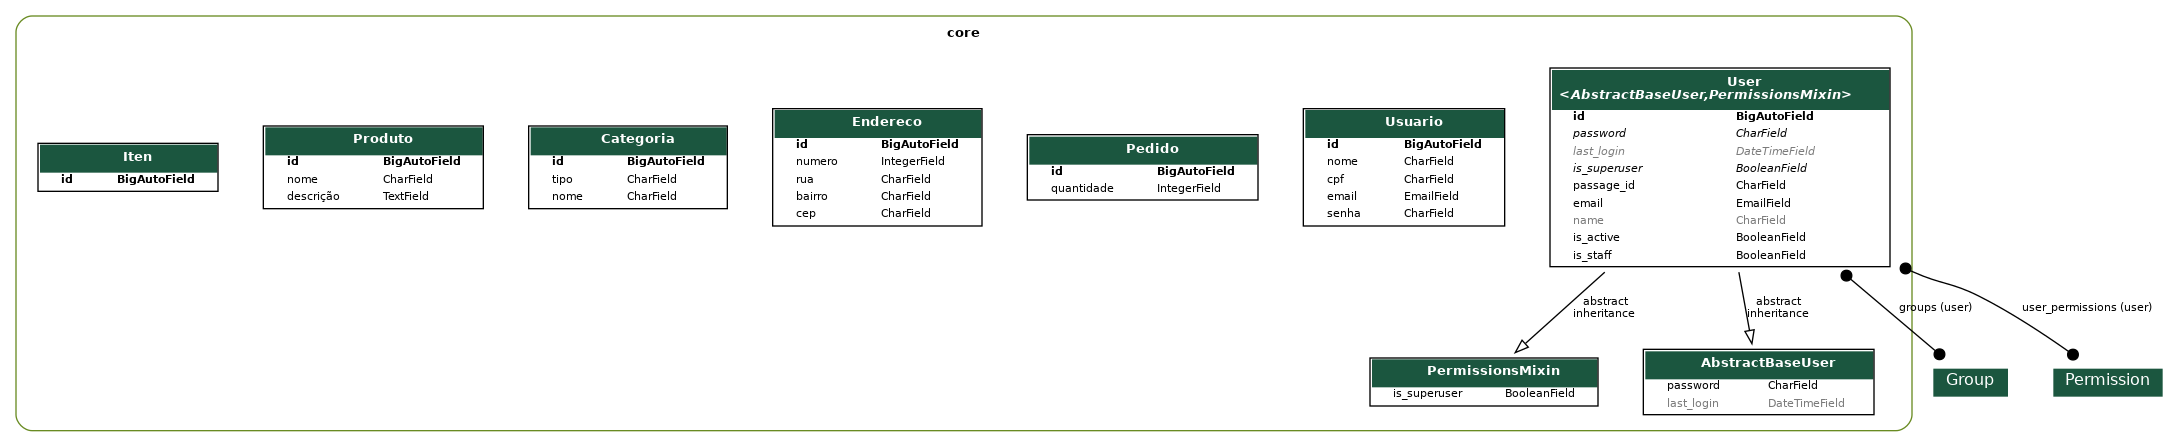
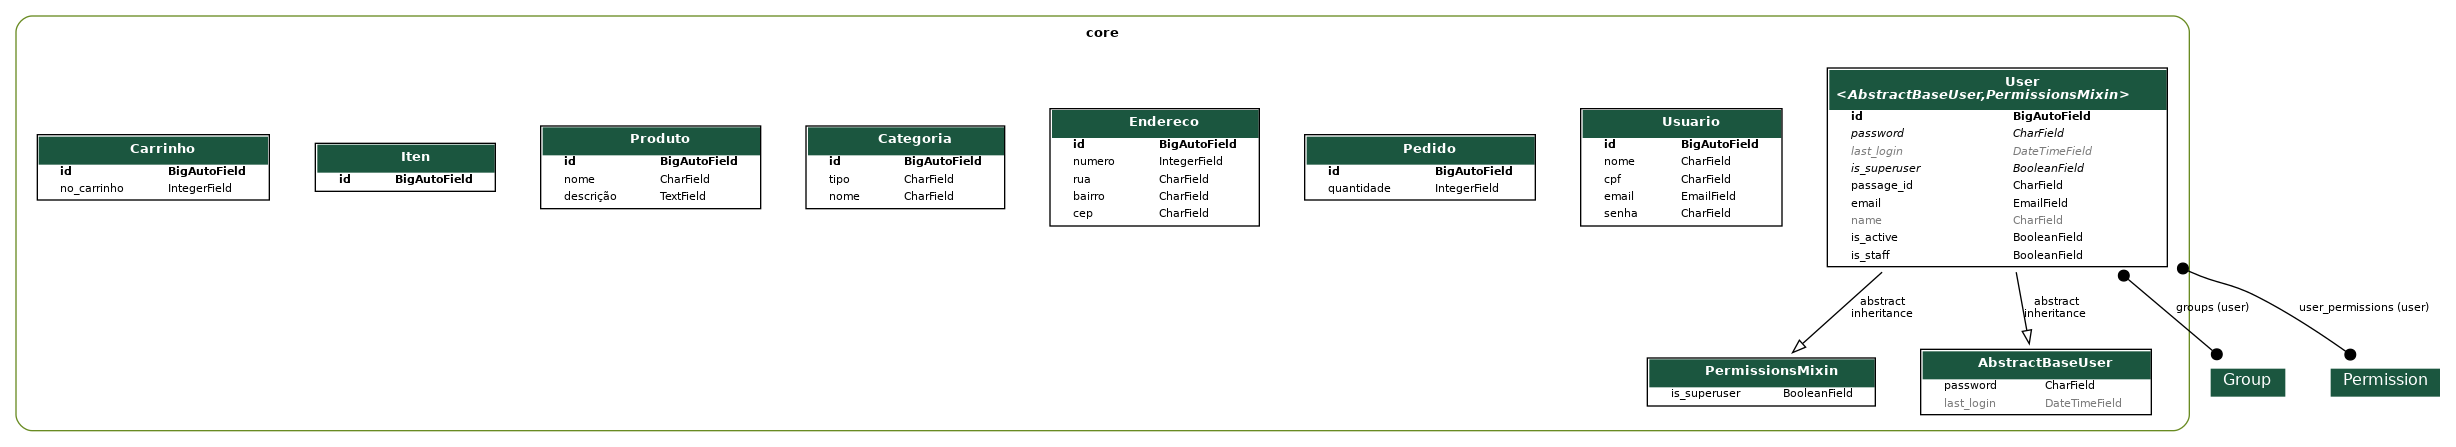
feat:criação do model e api carrinho

diff --git a/app/urls.py b/app/urls.py
@@ -1,5 +1,6 @@
 from django.contrib import admin
 from django.urls import include, path
+from core.views.carrinho import CarrinhoViewSet
 from core.views.categoria import CategoriaViewSet
 from core.views.endereco import EnderecoViewSet
 from core.views.itens_pedido import ItenViewSet
@@ -24,6 +25,9 @@ router.register(r'endereços',EnderecoViewSet, basename='endereços')
 router.register(r'categorias', CategoriaViewSet, basename='categorias')
 router.register(r'produto', ProdutoViewSet, basename='Produtos')
 router.register(r'Itens', ItenViewSet, basename='Itens')
+router.register(r'carrinhos', CarrinhoViewSet, basename='carrinhos')
+
+
 
 
 

diff --git a/core/migrations/0013_carrinho.py b/core/migrations/0013_carrinho.py
@@ -1,0 +1,20 @@
+# Generated by Django 5.1.7 on 2025-06-06 19:09
+
+from django.db import migrations, models
+
+
+class Migration(migrations.Migration):
+
+    dependencies = [
+        ('core', '0012_rename_intens_iten'),
+    ]
+
+    operations = [
+        migrations.CreateModel(
+            name='Carrinho',
+            fields=[
+                ('id', models.BigAutoField(auto_created=True, primary_key=True, serialize=False, verbose_name='ID')),
+                ('no_carrinho', models.IntegerField(default=0)),
+            ],
+        ),
+    ]

diff --git a/core/views/carrinho.py b/core/views/carrinho.py
@@ -1,0 +1,8 @@
+from rest_framework.viewsets import ModelViewSet
+
+from core.models import Carrinho
+from core.serializers import CarrinhoSerializer
+
+class CarrinhoViewSet(ModelViewSet):
+    queryset = Carrinho.objects.all()
+    serializer_class = CarrinhoSerializer

diff --git a/core/serializers/__init__.py b/core/serializers/__init__.py
@@ -5,3 +5,4 @@ from .endereco import EnderecoSerializer
 from .categoria import CategoriaSerializer
 from .produto import ProdutoSerializers
 from .itens_pedido import ItenSerializer
+from .carrinho import CarrinhoSerializer

diff --git a/core/serializers/carrinho.py b/core/serializers/carrinho.py
@@ -1,0 +1,8 @@
+from rest_framework.serializers import ModelSerializer
+
+from core.models import Carrinho 
+
+class CarrinhoSerializer(ModelSerializer):
+    class Meta:
+        model = Carrinho
+        fields = "__all__"

diff --git a/core/models/carrinho.py b/core/models/carrinho.py
@@ -1,0 +1,11 @@
+
+from django.db import models
+
+
+class Carrinho(models.Model):
+
+    no_carrinho= models.IntegerField(default=0, blank=False, null=False)
+    
+
+    def __str__(self):
+        return f"{self.cep} "

diff --git a/core/views/__init__.py b/core/views/__init__.py
@@ -5,3 +5,4 @@ from .endereco import EnderecoViewSet
 from .categoria import CategoriaViewSet
 from . produto import ProdutoViewSet
 from .itens_pedido import ItenViewSet
+from .carrinho import CarrinhoViewSet

diff --git a/core/admin.py b/core/admin.py
@@ -58,3 +58,4 @@ admin.site.register(models.Endereco)
 admin.site.register(models.Categoria)
 admin.site.register(models.Produto)
 admin.site.register(models.Iten)
+admin.site.register(models.Carrinho)

diff --git a/core/models/__init__.py b/core/models/__init__.py
@@ -5,3 +5,4 @@ from .endereco import Endereco
 from .categoria import Categoria
 from .produto import Produto
 from .itens_pedido import Iten
+from .carrinho import Carrinho
